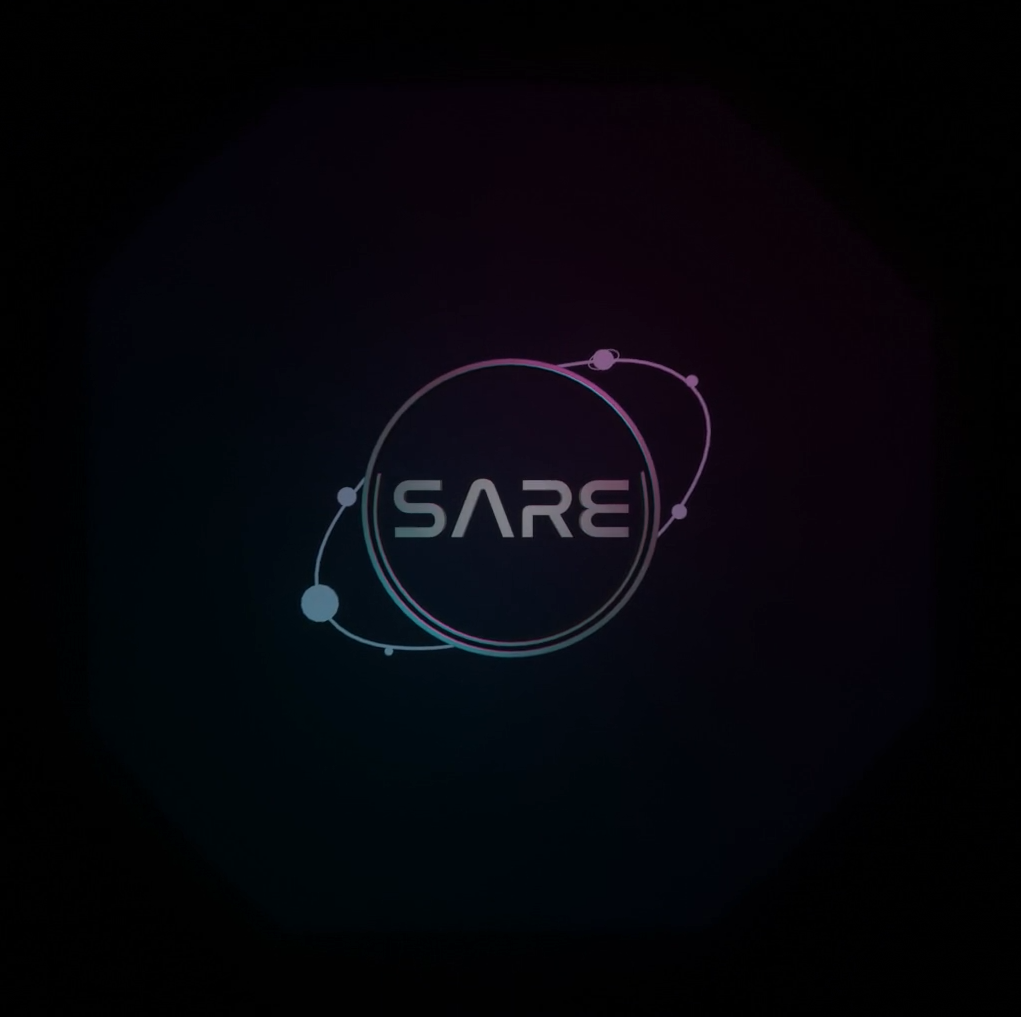
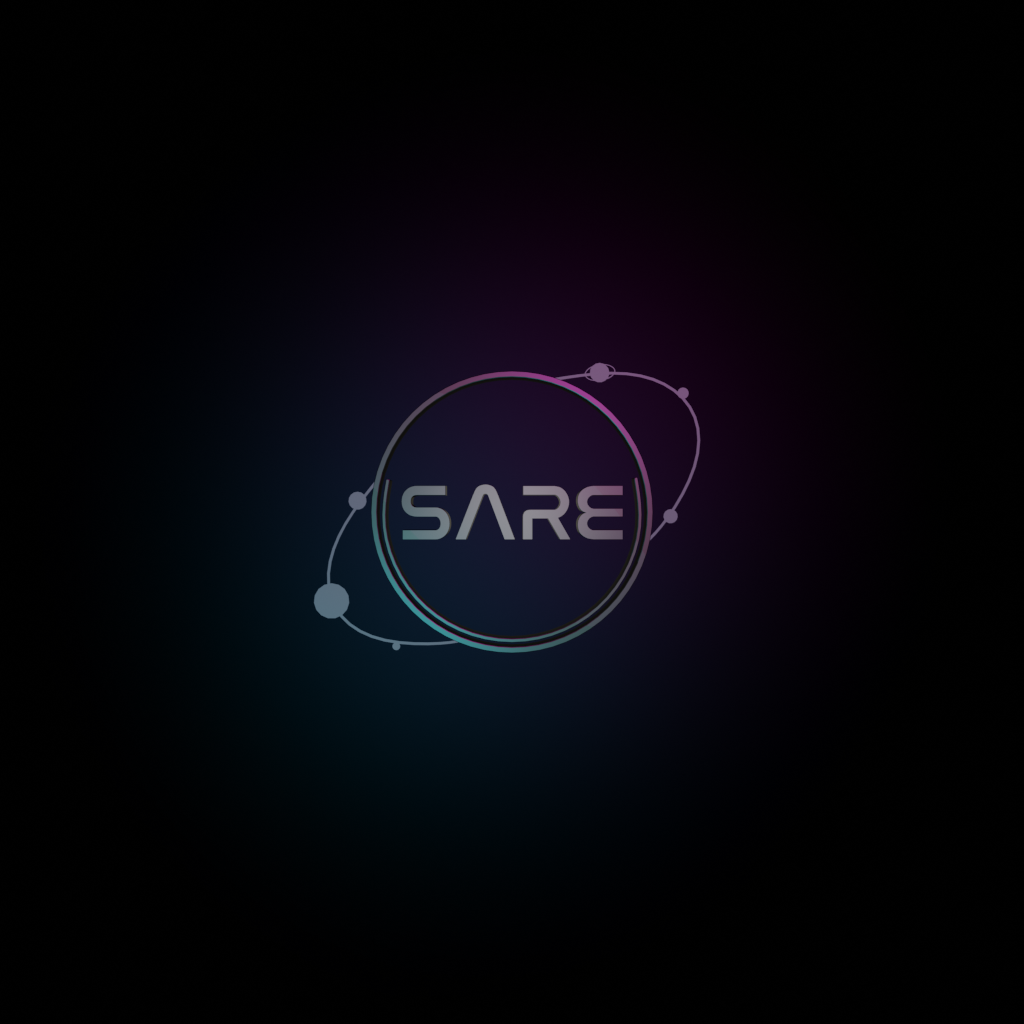
higher quality screenshot and updated readme

Changed region(s): [[0.2733, 0.3353, 0.6983, 0.6706]]

diff --git a/README.md b/README.md
@@ -3,4 +3,4 @@ A small application designed to run in a browser to visulize our logo in 3D, and
 
 ![Screenshot](./screenshots/screeshot_2023-12-2.png)
 
-Written in C++, compiled to WASM using `emscripten` to be able to run it in browser.
+Written in C++, compiled to WASM using `emscripten` for it to be able to run in a browser. Created assets and planned scene composition using [Blender](https://www.blender.org/).
